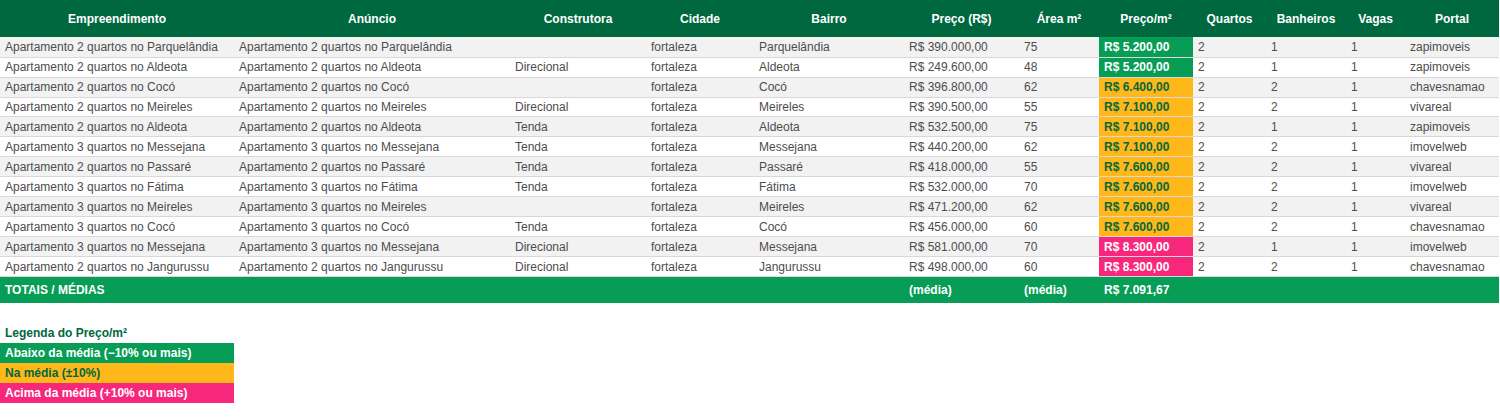
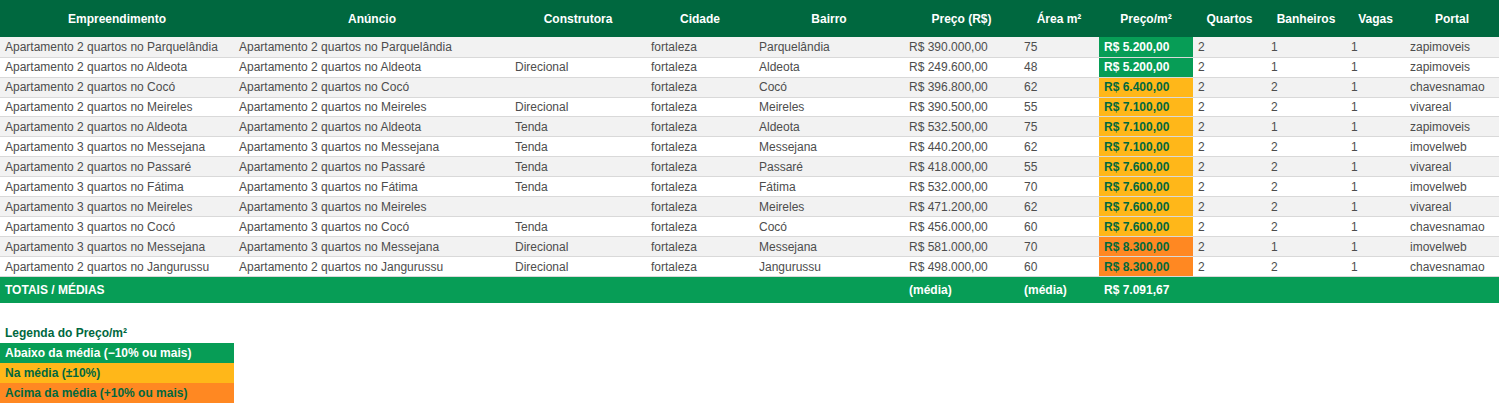
Excel: 'acima da média' em laranja FF8822 no lugar do rosa
Laranja da paleta principal (Pantone 1575 C), com texto verde-escuro: branco
sobre ele fica com contraste ~2,5:1.

Claude-Session: https://claude.ai/code/session_01AnFiFy5tdqvoTfmiVXnuAj

Changed region(s): [[0.7053, 0.5571, 0.7973, 0.681], [0.0, 0.8976, 0.1533, 0.9595]]

diff --git a/priceradar/backend/services/export.py b/priceradar/backend/services/export.py
@@ -15,7 +15,7 @@ logger = logging.getLogger(__name__)
 VERDE_ESCURO = "00683F"   # Pantone 7728 C
 VERDE = "079D56"          # Pantone 7725 C
 AMARELO = "FFB719"        # Pantone 137 C
-ROSA = "F7287C"           # Pantone 213 C (secundária)
+LARANJA = "FF8822"        # Pantone 1575 C
 BRANCO = "FFFFFF"
 CINZA_70 = "4D4D4D"       # tons de cinza da paleta neutra
 CINZA_ZEBRA = "F2F2F2"
@@ -23,13 +23,14 @@ CINZA_ZEBRA = "F2F2F2"
 HEADER_FG = BRANCO
 ROW_ALT_BG = CINZA_ZEBRA
 
-# Preço/m² contra a média. "Acima" usa o rosa da paleta secundária: é a única
-# cor da marca que lê como alerta sem ser confundida com o amarelo da média.
+# Preço/m² contra a média. "Acima" usa o laranja da paleta principal — escolha
+# do negócio (25/09/2026), no lugar do rosa da secundária.
 COR_VERDE = VERDE
 COR_AMARELO = AMARELO
-COR_VERMELHO = ROSA
-# Texto sobre cada faixa: branco some no amarelo (contraste ~1,7:1).
-_TEXTO_SOBRE = {COR_VERDE: BRANCO, COR_AMARELO: VERDE_ESCURO, COR_VERMELHO: BRANCO}
+COR_VERMELHO = LARANJA
+# Texto sobre cada faixa: branco some no amarelo (~1,7:1) e fica fraco no
+# laranja (~2,5:1); o verde-escuro da marca lê bem nos dois.
+_TEXTO_SOBRE = {COR_VERDE: BRANCO, COR_AMARELO: VERDE_ESCURO, COR_VERMELHO: VERDE_ESCURO}
 
 _LINHA = Side(style="thin", color="D9D9D9")
 

diff --git a/priceradar/backend/tests/test_export_localizacao.py b/priceradar/backend/tests/test_export_localizacao.py
@@ -140,7 +140,7 @@ def test_linha_de_totais_cobre_as_colunas_novas():
 def test_so_cores_da_paleta_mrv():
     """Nenhum preenchimento fora da paleta oficial (Território de marca, pp. 38-39)."""
     from services import export
-    paleta = {export.VERDE_ESCURO, export.VERDE, export.AMARELO, export.ROSA,
+    paleta = {export.VERDE_ESCURO, export.VERDE, export.AMARELO, export.LARANJA,
               export.BRANCO, export.CINZA_ZEBRA}
     emps = [empreendimento(id=str(i), preco_m2=v) for i, v in enumerate((5_000.0, 7_000.0, 9_000.0))]
     ws = planilha(emps)
